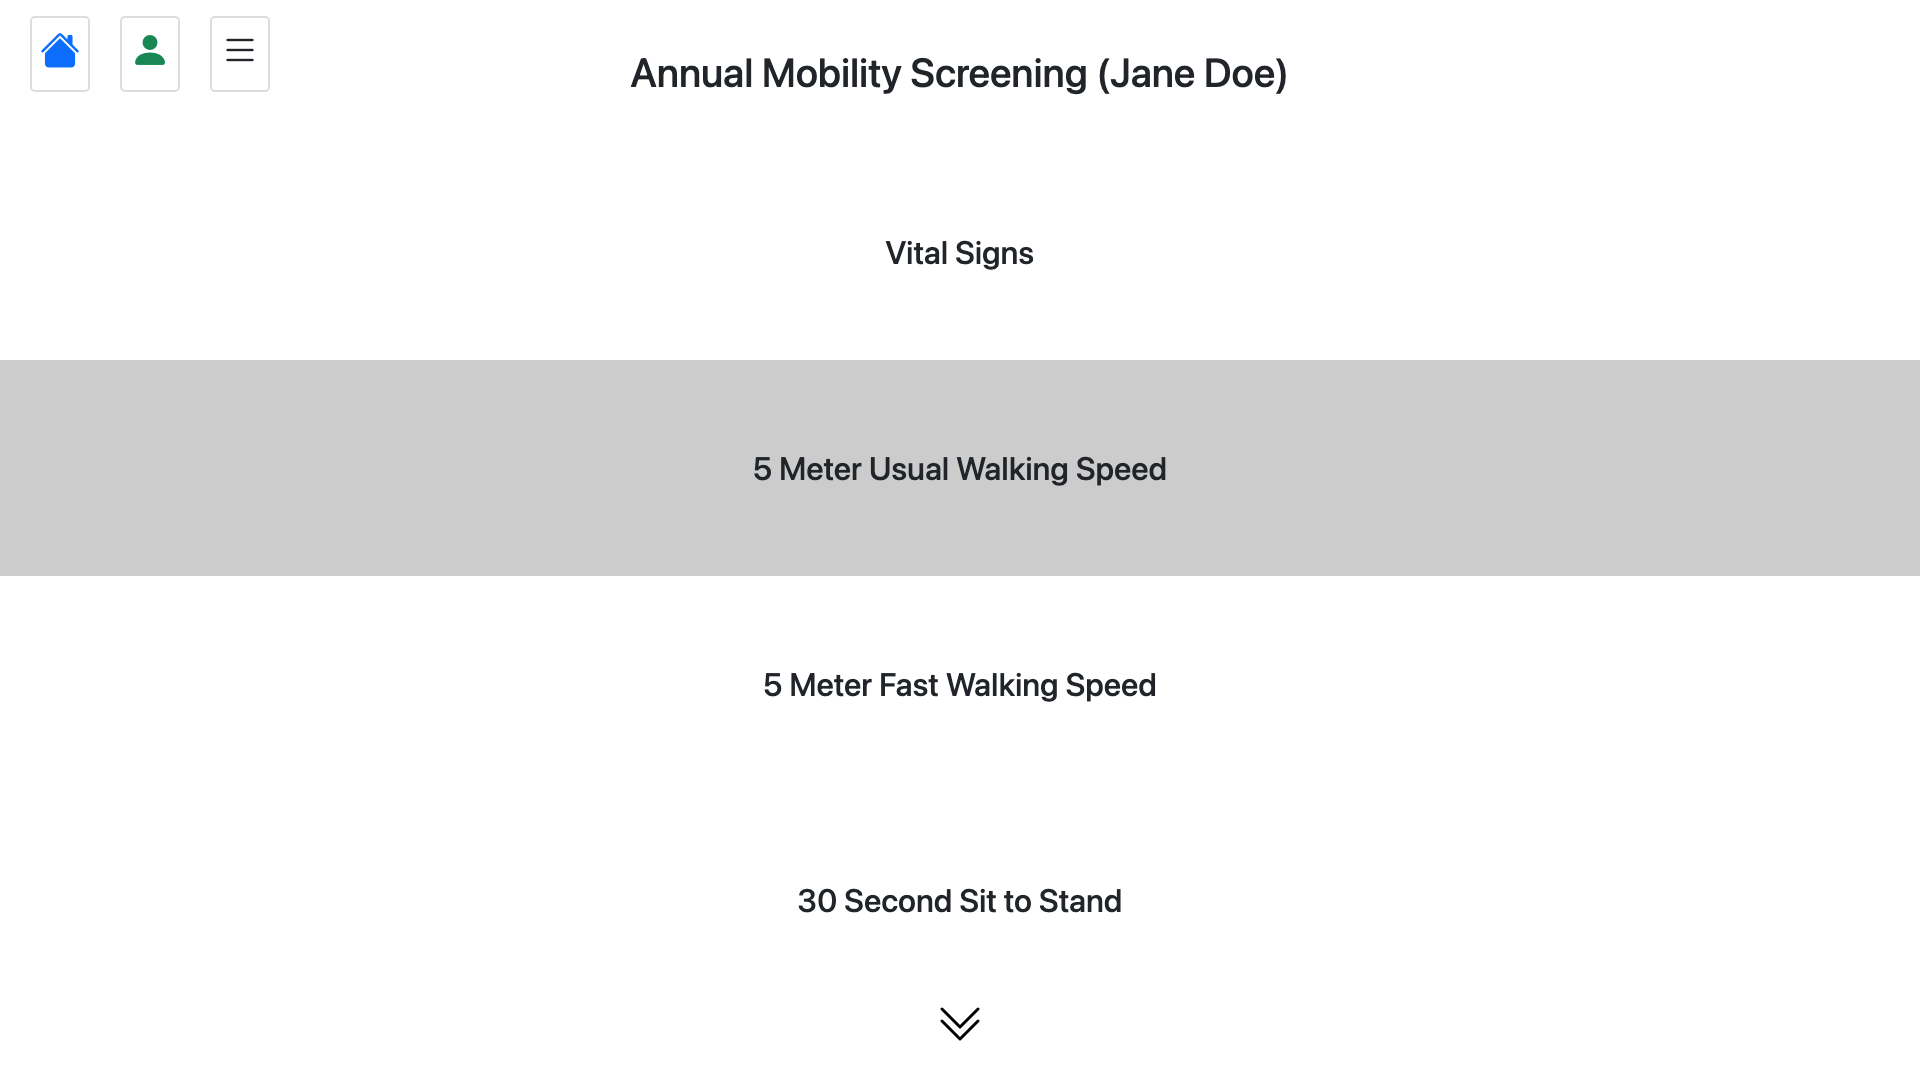
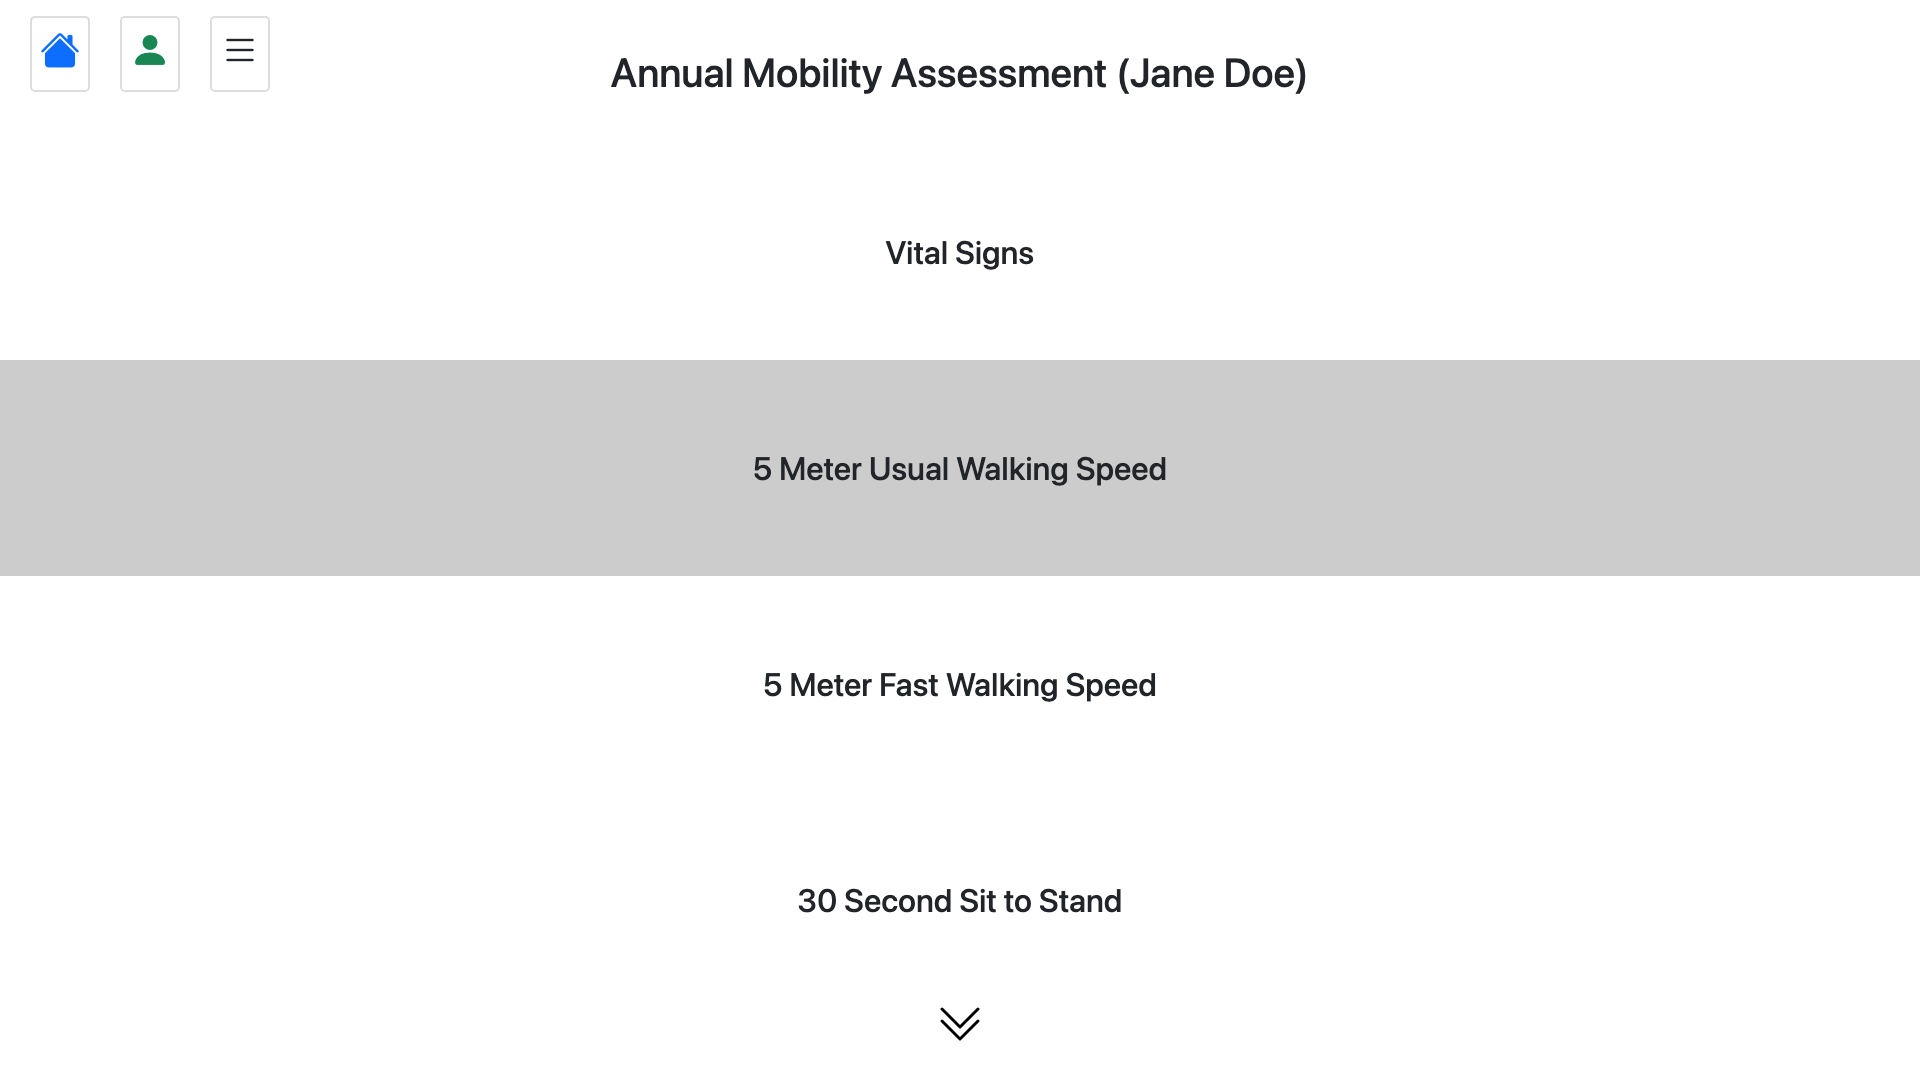
fix: rename assessment, optional spO2, small fixes as per mike's review

Changed region(s): [[0.3125, 0.0306, 0.6875, 0.0917]]

diff --git a/e2e/user-guide-walkthrough.spec.js b/e2e/user-guide-walkthrough.spec.js
@@ -98,7 +98,7 @@ function collectPageErrors(page) {
 
 test.describe.configure({ mode: 'serial' })
 
-test('user guide walkthrough: home -> AMS session -> summary', async ({ page }) => {
+test('user guide walkthrough: home -> AMA session -> summary', async ({ page }) => {
   test.setTimeout(180_000)
 
   const pageErrors = collectPageErrors(page)
@@ -116,6 +116,7 @@ test('user guide walkthrough: home -> AMS session -> summary', async ({ page }) 
   await expect(page.locator('img[alt="Home page"]').first()).toBeVisible()
   await expect(page.locator('#user-guide table')).toBeVisible()
   await expect(page.locator('#user-guide table').getByText('Concern')).toBeVisible()
+  await shot(page, 'user-guide.png')
   await page.getByRole('link', { name: /Data persistence and privacy/ }).click()
   await expect(page.locator('[id="10-data-persistence-and-privacy"]')).toBeInViewport()
   await page.goBack()
@@ -154,13 +155,13 @@ test('user guide walkthrough: home -> AMS session -> summary', async ({ page }) 
   await expect(page.getByRole('heading', { name: /New Session for/ })).toBeVisible()
   await shot(page, '07-new-session.png')
 
-  // 8. Select Annual Mobility Screening preset + create
-  await page.getByLabel('Annual Mobility Screening').check()
-  await shot(page, '08-new-session-ams-selected.png')
+  // 8. Select Annual Mobility Assessment preset + create
+  await page.getByLabel('Annual Mobility Assessment').check()
+  await shot(page, '08-new-session-ama-selected.png')
   await page.getByRole('button', { name: 'Create Session' }).click()
 
-  // 9. Session home (AMS measurement list)
-  await expect(page.getByRole('heading', { level: 1, name: /Annual Mobility Screening/ })).toBeVisible()
+  // 9. Session home (AMA measurement list)
+  await expect(page.getByRole('heading', { level: 1, name: /Annual Mobility Assessment/ })).toBeVisible()
   for (const name of [
     'Vital Signs',
     '5 Meter Usual Walking Speed',
@@ -176,15 +177,16 @@ test('user guide walkthrough: home -> AMS session -> summary', async ({ page }) 
   // 10. Proceed into measurements: Vital Signs
   await clickNext(page)
   await expect(page.getByRole('heading', { level: 1, name: /Vital Signs/ })).toBeVisible()
+  // Vital Signs field order in YAML: [bloodPressure, restingPulseRate, oxygenSaturation]
   const vitalsInputs = page.locator('.measurement-input')
-  await vitalsInputs.nth(0).fill(VITALS.pulse)
+  await vitalsInputs.nth(0).fill(VITALS.bp)
   await vitalsInputs.nth(0).blur()
-  await vitalsInputs.nth(1).fill(VITALS.bp)
+  await vitalsInputs.nth(1).fill(VITALS.pulse)
   await vitalsInputs.nth(1).blur()
   await vitalsInputs.nth(2).fill(VITALS.spo2)
   await vitalsInputs.nth(2).blur()
   await expect(page.getByText('This patient is eligible for physical activity.')).toBeVisible()
-  await expect(page.getByText('This patient is eligible for the Annual Mobility Screening.')).toBeVisible()
+  await expect(page.getByText('This patient is eligible for the Annual Mobility Assessment.')).toBeVisible()
   await expectNoBrokenValues(page)
   await shot(page, '10-vitals-filled.png', { fullPage: true })
 
@@ -286,6 +288,13 @@ test('user guide walkthrough: home -> AMS session -> summary', async ({ page }) 
   await expectNoBrokenValues(page)
 
   await shot(page, '18-summary.png', { fullPage: true })
+
+  // Navigate back to the patient page so we can capture it with a completed session.
+  await page.goto('/#/existing-patient')
+  await expect(page.getByRole('heading', { level: 1, name: 'Existing Patients' })).toBeVisible()
+  await page.getByRole('link', { name: PATIENT.name }).click()
+  await expect(page.getByRole('heading', { name: `Patient: ${PATIENT.name}` })).toBeVisible()
+  await shot(page, 'patient-with-session.png')
 
   expect(pageErrors, `Unexpected page/console errors:\n${pageErrors.join('\n')}`).toEqual([])
 })

diff --git a/src/__tests__/migration/validationParity.test.js b/src/__tests__/migration/validationParity.test.js
@@ -215,13 +215,13 @@ describe('Validation Parity: computedFields', () => {
             expect(compute(0)).toEqual({ 'Walking Speed': 'N/A' })
         })
         it('computes speed correctly for 5 seconds', () => {
-            expect(compute(5)).toEqual({ 'Walking Speed': '1.000 m/s' })
+            expect(compute(5)).toEqual({ 'Walking Speed': '1.00 m/s' })
         })
         it('computes speed correctly for 4.1 seconds', () => {
-            expect(compute(4.1)).toEqual({ 'Walking Speed': '1.220 m/s' })
+            expect(compute(4.1)).toEqual({ 'Walking Speed': '1.22 m/s' })
         })
         it('computes speed correctly for string value', () => {
-            expect(compute('4.0')).toEqual({ 'Walking Speed': '1.250 m/s' })
+            expect(compute('4.0')).toEqual({ 'Walking Speed': '1.25 m/s' })
         })
     })
 
@@ -232,7 +232,7 @@ describe('Validation Parity: computedFields', () => {
             expect(compute(null)).toEqual({ 'Walking Speed': 'N/A' })
         })
         it('computes speed correctly', () => {
-            expect(compute(3.0)).toEqual({ 'Walking Speed': '1.667 m/s' })
+            expect(compute(3.0)).toEqual({ 'Walking Speed': '1.67 m/s' })
         })
     })
 })
@@ -250,20 +250,20 @@ describe('Validation Parity: disabledCasesComputed showOverride', () => {
             expect(showOverride(formState, validations, {}, 'fiveMeterUsualWalkingSpeed')).toBe(true)
         })
 
-        it('shows override when vitals are invalid', () => {
-            const formState = { vitalSigns: [{ value: ['80', '120/80', '98'] }] }
-            const validations = { vitalSigns: [[false, true, true]] }
-            expect(showOverride(formState, validations, {}, 'fiveMeterUsualWalkingSpeed')).toBe(true)
+        it('does not show override when only SpO2 is missing (SpO2 is optional)', () => {
+            const formState = { vitalSigns: [{ value: ['120/80', '80', ''] }] }
+            const validations = { vitalSigns: [[true, true, true]] }
+            expect(showOverride(formState, validations, {}, 'fiveMeterUsualWalkingSpeed')).toBe(false)
         })
 
         it('shows override when vitals indicate ineligibility', () => {
-            const formState = { vitalSigns: [{ value: ['105', '120/80', '98'] }] }
+            const formState = { vitalSigns: [{ value: ['120/80', '105', '98'] }] }
             const validations = { vitalSigns: [[true, true, true]] }
             expect(showOverride(formState, validations, {}, 'fiveMeterUsualWalkingSpeed')).toBe(true)
         })
 
         it('hides override when vitals are valid and eligible', () => {
-            const formState = { vitalSigns: [{ value: ['80', '120/80', '98'] }] }
+            const formState = { vitalSigns: [{ value: ['120/80', '80', '98'] }] }
             const validations = { vitalSigns: [[true, true, true]] }
             expect(showOverride(formState, validations, {}, 'fiveMeterUsualWalkingSpeed')).toBe(false)
         })

diff --git a/src/__tests__/fixtures/testFormStates.js b/src/__tests__/fixtures/testFormStates.js
@@ -7,7 +7,7 @@
 // Value shapes by measurement type:
 //   text/date/radio: string
 //   integer/decimal: number (stored as string in some paths, parsed by consumers)
-//   fields (vitalSigns): array [restingPulseRate, bloodPressure, oxygenSaturation]
+//   fields (vitalSigns): array [bloodPressure, restingPulseRate, oxygenSaturation] (matches YAML field_names order)
 //   fields (timedUpAndGoCognitive): array [time, errorCount]
 //   stopwatch: array of trial values (numbers or strings)
 
@@ -47,7 +47,9 @@ export const DOB_AGE_92 = '1933-01-15'   // age 92
 // ==================== Vital Signs ====================
 
 function makeVitals(pulse, bp, spo2) {
-    return [entry('Vital Signs', [pulse, bp, spo2])]
+    // YAML field_names order is [bloodPressure, restingPulseRate, oxygenSaturation];
+    // helper signature stays pulse-first for readability at call sites.
+    return [entry('Vital Signs', [bp, pulse, spo2])]
 }
 
 export const VALID_VITALS = makeVitals('80', '120/80', '98')
@@ -79,7 +81,7 @@ function makeMultipleTrials(label, ...valueSets) {
  * @param {Object} opts
  * @param {string} opts.sex - 'Male' or 'Female'
  * @param {string} opts.dob - date string
- * @param {Array} opts.vitals - [pulse, bp, spo2] or null
+ * @param {Array} opts.vitals - [pulse, bp, spo2] or null (rearranged internally to YAML order)
  * @param {Array} opts.usualWalkTrials - array of trial times or null
  * @param {Array} opts.fastWalkTrials - array of trial times or null
  * @param {Array} opts.fsstTrials - array of trial times or null
@@ -100,7 +102,7 @@ export function buildFormState(opts = {}) {
     if (opts.vitals !== undefined) {
         fs.vitalSigns = opts.vitals === null
             ? [entry('Vital Signs', '')]
-            : [entry('Vital Signs', opts.vitals)]
+            : [entry('Vital Signs', [opts.vitals[1], opts.vitals[0], opts.vitals[2]])]
     }
     if (opts.usualWalkTrials !== undefined) {
         fs.fiveMeterUsualWalkingSpeed = opts.usualWalkTrials === null

diff --git a/src/__tests__/migration/configParity.test.js b/src/__tests__/migration/configParity.test.js
@@ -37,7 +37,7 @@ describe('YAML Config Parity: MEASUREMENT_GROUP_MAP', () => {
     it('maps vitalSigns to correct interpretations', () => {
         const vs = MEASUREMENT_GROUP_MAP.find(e => e.stateKey === 'vitalSigns')
         expect(vs.calculationKeys).toEqual([])
-        expect(vs.interpretationKeys).toEqual(['vitalSigns', 'annualMobilityScreening'])
+        expect(vs.interpretationKeys).toEqual(['vitalSigns', 'annualMobilityAssessment'])
     })
 
     it('maps fiveMeterUsualWalkingSpeed correctly', () => {
@@ -77,7 +77,7 @@ describe('YAML Config Parity: MEASUREMENT_GROUP_MAP', () => {
     })
 
     it('getInterpretationKeysForMeasurement works correctly', () => {
-        expect(getInterpretationKeysForMeasurement('vitalSigns')).toEqual(['vitalSigns', 'annualMobilityScreening'])
+        expect(getInterpretationKeysForMeasurement('vitalSigns')).toEqual(['vitalSigns', 'annualMobilityAssessment'])
         expect(getInterpretationKeysForMeasurement('fiveMeterUsualWalkingSpeed')).toEqual(['usualWalkingSpeed'])
         expect(getInterpretationKeysForMeasurement('thirtySecondSitToStand')).toEqual([])
         expect(getInterpretationKeysForMeasurement('nonexistent')).toEqual([])
@@ -115,9 +115,9 @@ describe('YAML Config Parity: PT_TEST_CONFIG', () => {
         expect(m.permittedMeasurements).toBe(null)
     })
 
-    it('annualMobilityScreening test has correct restrictions', () => {
-        const m = PT_TEST_CONFIG.find(c => c.testKey === 'annualMobilityScreening')
-        expect(m.defaultTestName).toBe('Annual Mobility Screening')
+    it('annualMobilityAssessment test has correct restrictions', () => {
+        const m = PT_TEST_CONFIG.find(c => c.testKey === 'annualMobilityAssessment')
+        expect(m.defaultTestName).toBe('Annual Mobility Assessment')
         expect(m.permittedMeasurements).toEqual([
             'vitalSigns',
             'fiveMeterUsualWalkingSpeed',

diff --git a/src/__tests__/migration/interpretationParity.test.js b/src/__tests__/migration/interpretationParity.test.js
@@ -402,10 +402,10 @@ describe('Interpretation: timedUpAndGoCognitive', () => {
     })
 })
 
-// ==================== Annual Mobility Screening Interpretation ====================
+// ==================== Annual Mobility Assessment Interpretation ====================
 
-describe('Interpretation: annualMobilityScreening', () => {
-    const interpret = INTERPRETATION_SECTION_CONFIGS.annualMobilityScreening.messageFunction
+describe('Interpretation: annualMobilityAssessment', () => {
+    const interpret = INTERPRETATION_SECTION_CONFIGS.annualMobilityAssessment.messageFunction
 
     it('returns null when no vitals', () => {
         expect(interpret(EMPTY_FORM_STATE)).toBe(null)
@@ -428,7 +428,7 @@ describe('Interpretation: annualMobilityScreening', () => {
         const result = interpret(fs)
         expect(result).not.toBe(null)
         expect(result[0].type).toBe('success')
-        expect(result[0].text).toBe('This patient is eligible for the Annual Mobility Screening.')
+        expect(result[0].text).toBe('This patient is eligible for the Annual Mobility Assessment.')
     })
 
     it('triggers for all ineligibility reasons', () => {
@@ -542,7 +542,7 @@ describe('Interpretation metadata', () => {
         expect(INTERPRETATION_SECTION_CONFIGS.fourSquareStepTest.label).toBe('Four Square Step Test')
         expect(INTERPRETATION_SECTION_CONFIGS.timedUpAndGo.label).toBe('Timed Up and Go (TUG)')
         expect(INTERPRETATION_SECTION_CONFIGS.timedUpAndGoCognitive.label).toBe('Timed Up and Go Cognitive Dual Task')
-        expect(INTERPRETATION_SECTION_CONFIGS.annualMobilityScreening.label).toBe('Annual Mobility Screening')
+        expect(INTERPRETATION_SECTION_CONFIGS.annualMobilityAssessment.label).toBe('Annual Mobility Assessment')
     })
 
     it('all have citations', () => {

diff --git a/src/DB.js b/src/DB.js
@@ -1,7 +1,7 @@
 import { PT_TEST_CONFIG } from './components/physical-therapy-tests/PhysicalTherapyTestFactory'
 
 // NOTE: every time the DB schema is updated, this must be incremented. NOTE THAT THIS WILL DELETE ALL EXISTING USERS IN THE DB.
-const CURRENT_DB_VERSION = 3
+const CURRENT_DB_VERSION = 4
 
 let dbPromise = null
 
@@ -13,7 +13,6 @@ const openDB = () => {
             request.onupgradeneeded = (event) => {
                 const db = event.target.result;
 
-                // TODO: in the future, have a better DB migration strategy instead of deleting all the users
                 if (db.objectStoreNames.contains('users')) {
                     db.deleteObjectStore('users');
                 }
@@ -72,8 +71,8 @@ const getCurrentSessionUUID = () => {
 //             uuid: string,
 //             sessionTimestamp: string,  // ISO 8601, user-selectable (defaults to creation time)
 //             createdAt: string,         // ISO 8601
-//             testKey: string,           // e.g. 'annualMobilityScreening' or 'measurements'
-//             testName: string,          // e.g. 'Annual Mobility Screening'
+//             testKey: string,           // e.g. 'annualMobilityAssessment' or 'measurements'
+//             testName: string,          // e.g. 'Annual Mobility Assessment'
 //             lastModified: string,      // ISO 8601
 //             lastSaved: string|null,    // ISO 8601, null until manually saved
 //             data: {

diff --git a/src/engines/validationEngine.js b/src/engines/validationEngine.js
@@ -45,7 +45,14 @@ export function buildValidationFunction(validation) {
     }
 
     if (checks.length === 0) return undefined
-    return (value) => checks.every(check => check(value))
+    const allChecksPass = (value) => checks.every(check => check(value))
+    if (validation.optional) {
+        return (value) =>
+            value === null || value === undefined || value === '' || (typeof value === 'number' && isNaN(value))
+                ? true
+                : allChecksPass(value)
+    }
+    return allChecksPass
 }
 
 function buildPatternValidation(validation) {

diff --git a/docs/user-guide.md b/docs/user-guide.md
@@ -6,7 +6,7 @@ storage happen in your browser; no patient information is transmitted to a
 server.
 
 This guide walks through the complete workflow on the Annual Mobility
-Screening (AMS) preset: creating a patient, starting a session, administering
+Assessment (AMA) preset: creating a patient, starting a session, administering
 measurements, and reviewing the summary. The screenshots below are produced
 by the end-to-end walkthrough test at `e2e/user-guide-walkthrough.spec.js`,
 so they stay in sync with the deployed UI.
@@ -23,7 +23,7 @@ so they stay in sync with the deployed UI.
 3. [Creating a patient](#3-creating-a-patient)
 4. [The patient dashboard](#4-the-patient-dashboard)
 5. [Starting a session](#5-starting-a-session)
-6. [Administering the Annual Mobility Screen](#6-administering-the-annual-mobility-screen)
+6. [Administering the Annual Mobility Assessment](#6-administering-the-annual-mobility-assessment)
 7. [Reading the summary](#7-reading-the-summary)
 8. [Interpretation severities](#8-interpretation-severities)
 9. [Exporting results](#9-exporting-results)
@@ -100,25 +100,25 @@ point it was last saved.
 ## 5. Starting a session
 
 **New Session** prompts for a session timestamp (defaults to now; can be
-backdated) and a test type. Selecting the **Annual Mobility Screening**
+backdated) and a test type. Selecting the **Annual Mobility Assessment**
 preset restricts the measurement list to the nine measures that make up
 that protocol in the order they should be administered. Selecting
 **Measurements** gives access to every configured measurement.
 
 <p align="center"><img src="user-guide-images/07-new-session.png" alt="New Session form" width="720"></p>
 
-<p align="center"><img src="user-guide-images/08-new-session-ams-selected.png" alt="Annual Mobility Screening selected" width="720"></p>
+<p align="center"><img src="user-guide-images/08-new-session-ama-selected.png" alt="Annual Mobility Assessment selected" width="720"></p>
 
 Click **Create Session** to land on the session home.
 
-## 6. Administering the Annual Mobility Screen
+## 6. Administering the Annual Mobility Assessment
 
 The session home shows the full ordered list of measurements for the
 preset. Click **Proceed to Measurements** to step into the workflow; the
 **Next Measurement** / **Previous Measurement** buttons (or the side-nav
 icon) move between pages. Your session auto-saves to IndexedDB as you go.
 
-<p align="center"><img src="user-guide-images/09-session-home.png" alt="AMS session home" width="720"></p>
+<p align="center"><img src="user-guide-images/09-session-home.png" alt="AMA session home" width="720"></p>
 
 ### Vital Signs (safety screen)
 

diff --git a/README.md b/README.md
@@ -2,7 +2,7 @@
 
 PhysioMeter is a clinical tool for recording physical therapy measurements, computing derived values, and generating evidence-based interpretations. Visit https://niema-lab.github.io/PhysioMeter/.
 
-For an end-user walkthrough of the app with annotated screenshots of every step in the Annual Mobility Screening workflow, see [`docs/user-guide.md`](docs/user-guide.md).
+For an end-user walkthrough of the app with annotated screenshots of every step in the Annual Mobility Assessment workflow, see [`docs/user-guide.md`](docs/user-guide.md).
 
 Licensed under the GNU General Public License v3.0 — see [`LICENSE`](LICENSE).
 
@@ -28,7 +28,7 @@ Each patient has a name, date of birth, and sex. Patient data is stored locally 
 
 ### Test Presets
 
-When creating a session, you choose a test preset that determines which measurements are available. Currently there are two presets: **Measurements** (all measurements) and **Annual Mobility Screening** (a curated subset of 10 measurements).
+When creating a session, you choose a test preset that determines which measurements are available. Currently there are two presets: **Measurements** (all measurements) and **Annual Mobility Assessment** (a curated subset of 10 measurements).
 
 ### Measurements
 

diff --git a/docs/configuration-guide.md b/docs/configuration-guide.md
@@ -455,8 +455,8 @@ Add an entry to `measurement_groups.yaml`:
   name: "Measurements"                    # Display name
   # No permitted_measurements → all measurements available
 
-- key: annualMobilityScreening
-  name: "Annual Mobility Screening"
+- key: annualMobilityAssessment
+  name: "Annual Mobility Assessment"
   permitted_measurements:
     - vitalSigns
     - fiveMeterUsualWalkingSpeed
